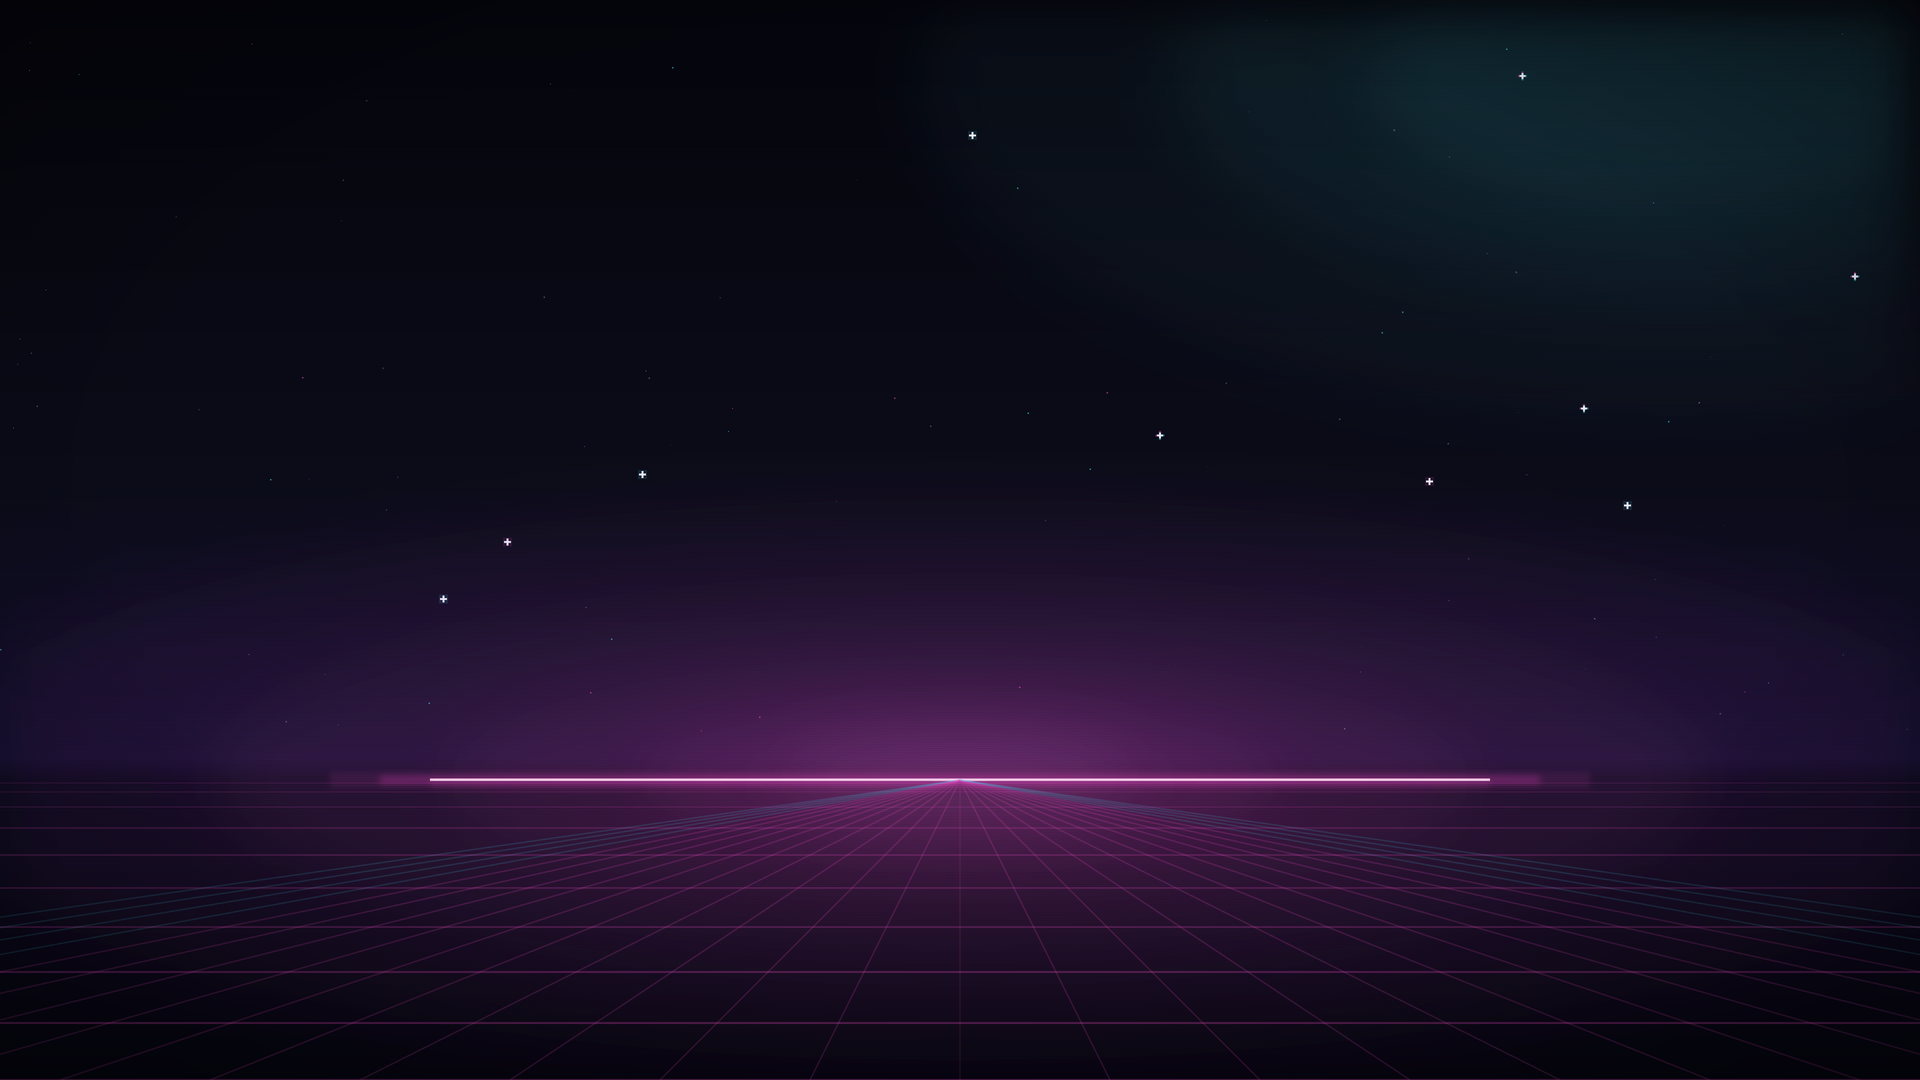
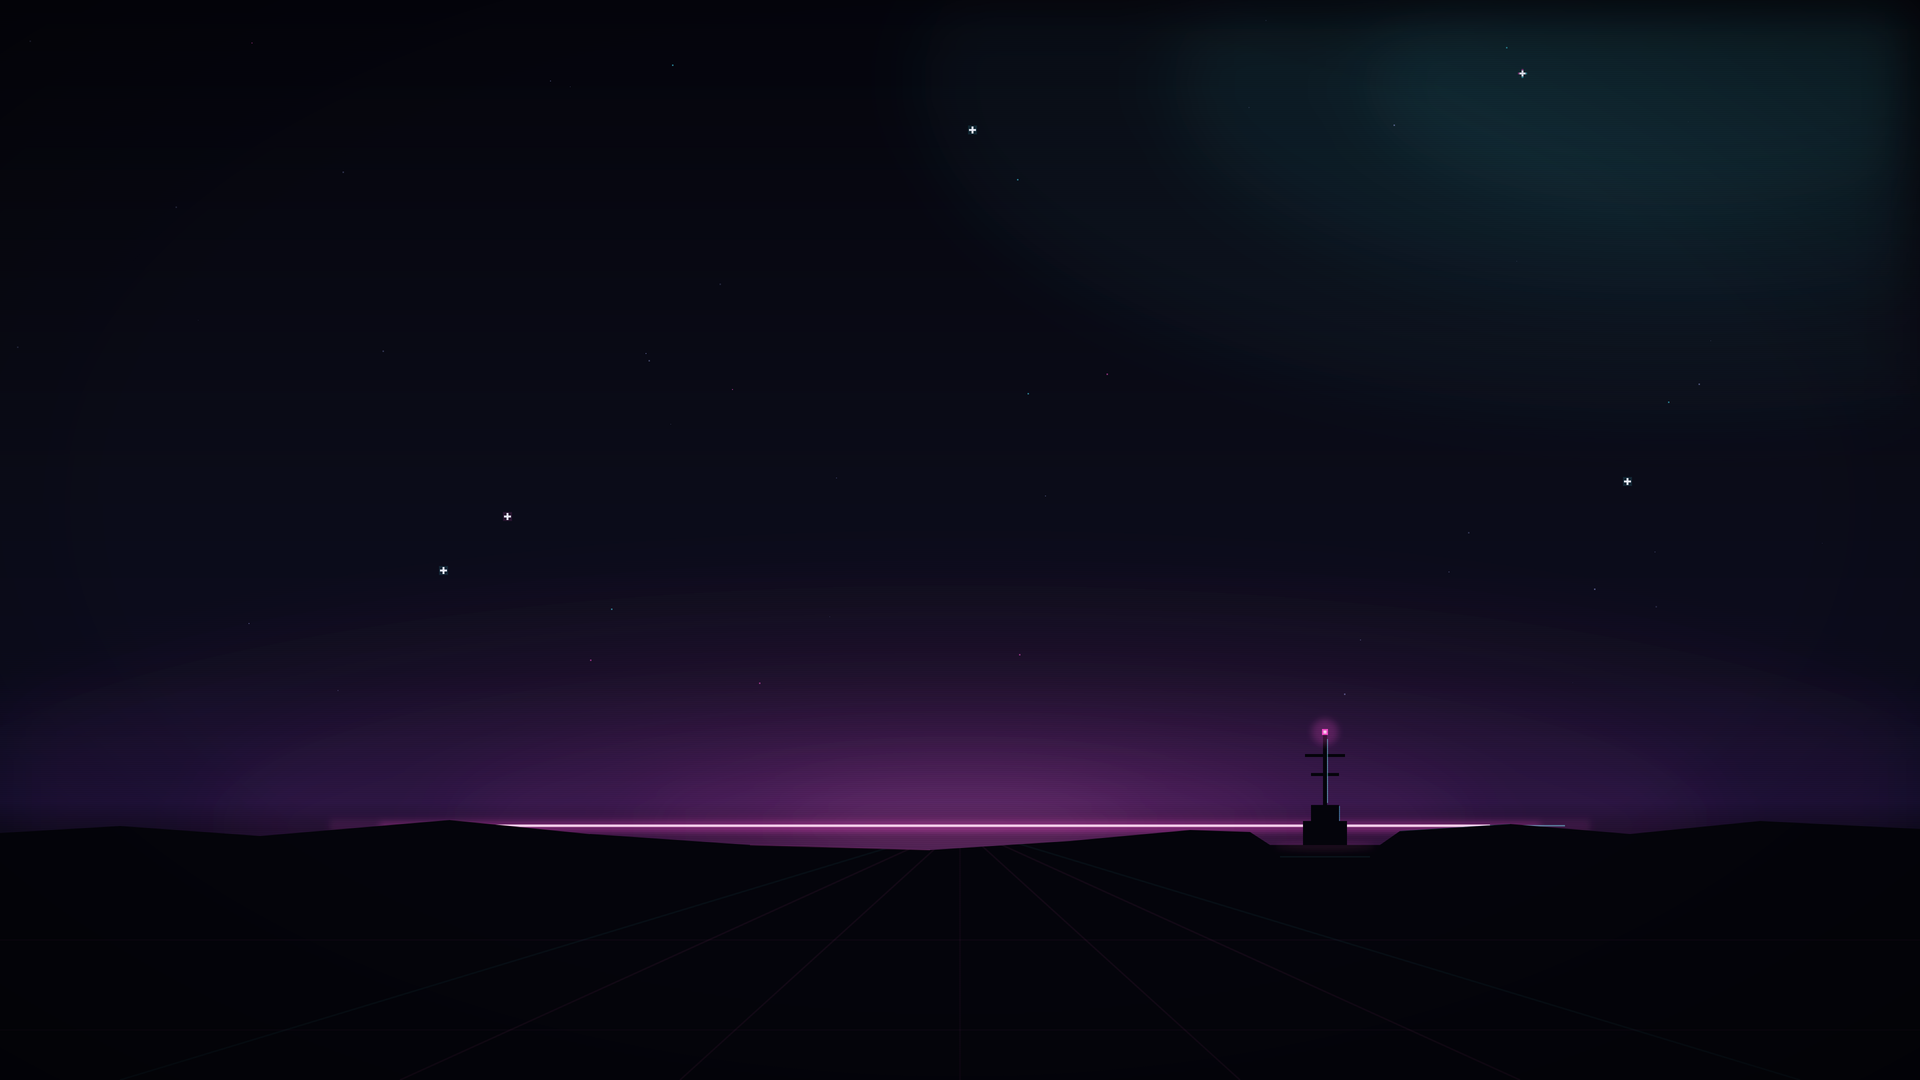
The theme is photographed applied: a staged terminals shot and the rig that takes it
The repository now carries screenshots/terminals.png — fastfetch wearing the
theme's own wallpaper as a sixel logo, the omarchy palette preview tables, and
btop, staged on a spare workspace with the magenta-to-cyan active border
framing btop — plus preview.png regenerated from that same frame as the
theme-switcher tile, and a README that leads with the capture instead of
wallpaper art.

The README previously showed only generated wallpapers (issue #1): a colour
theme documents itself with terminals, and nothing on the box could stage that
shot reproducibly. Getting it took measuring Hyprland 0.56's Lua dispatch
rather than guessing at it: window.resize sizes a float exactly but re-centres
it, window.move x+y is absolute top-left (relative is the opt-in delta), so
placement is float, then resize, then move; focus({workspace}) pulls the
workspace to whichever monitor is focused, so the landscape panel is focused
first; and any hl.config write reloads the config, which recompiles the CRT
glass shader and raises Hyprland's sticky red error banner across the top of
the shot.

bin/shoot-terminals encodes all of it: the pointer is parked on the other
output instead of borrowing cursor:inactive_timeout, foot titles are locked so
cleanup closes exactly the windows the script opened (including corpses a
broken run left at negative coordinates), a latched banner is closed with
hyprctl seterror disable, mako is cleared, and the placements are printed as
[…]

Changed region(s): [[0.0, 0.6111, 1.0, 0.9167]]

diff --git a/README.md b/README.md
@@ -4,7 +4,11 @@ An Omarchy theme. Dark-space duotone: a near-black indigo ground, one hot
 magenta signal, one electric cyan depth. About 90% of every surface stays
 dark — the two accents behave like coloured light sources, not paint.
 
-![Bright horizon](backgrounds/1-bright-horizon.png)
+![Bright Future, applied](screenshots/terminals.png)
+
+The capture is real and reproducible: `bin/shoot-terminals` stages fastfetch,
+the omarchy palette preview and btop on a spare workspace, shoots the monitor,
+and derives `preview.png` from the same frame.
 
 ## Install
 
@@ -47,6 +51,8 @@ librsvg rasterises, ImageMagick derives the preview/unlock stills). No sourced
 art. *Bright horizon* is the dawn line and grid; *deep field* is a starfield
 with a two-hue drift for a quieter second cycle. Rendered PNGs are committed —
 rerun the script only to change the art (needs librsvg and ImageMagick).
+
+![Bright horizon](backgrounds/1-bright-horizon.png)
 
 ![Deep field](backgrounds/2-deep-field.png)
 
